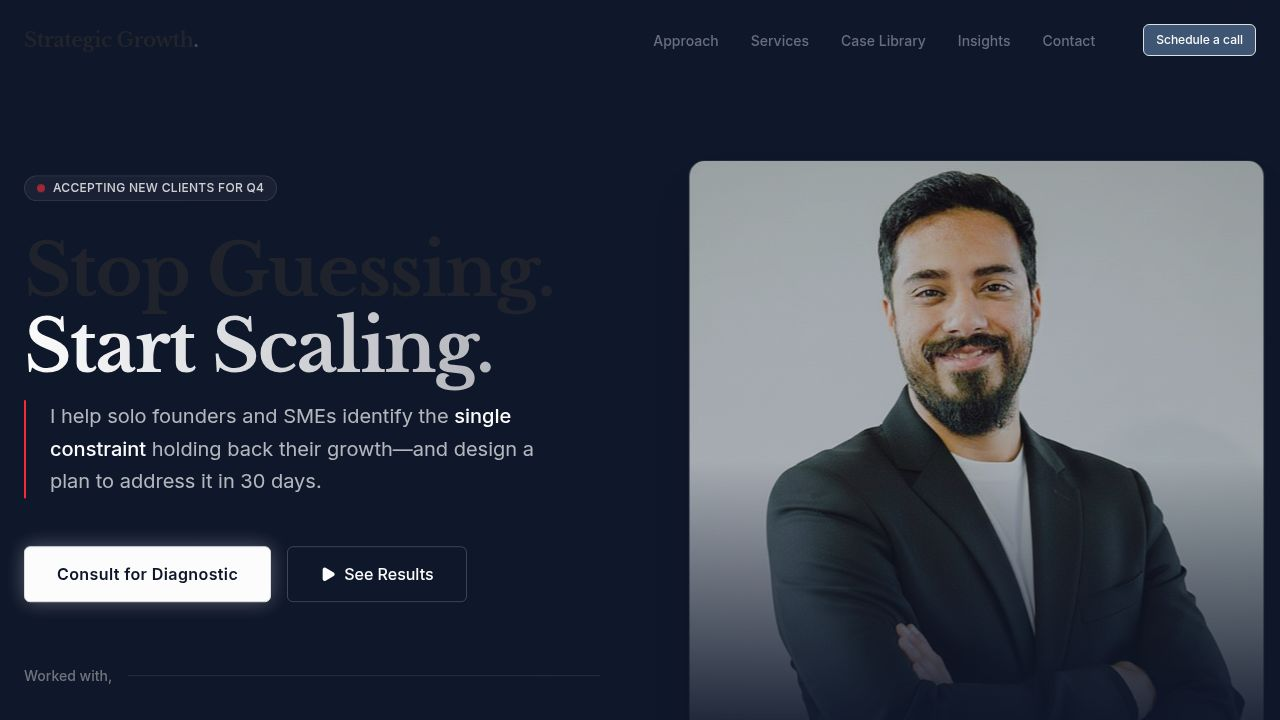
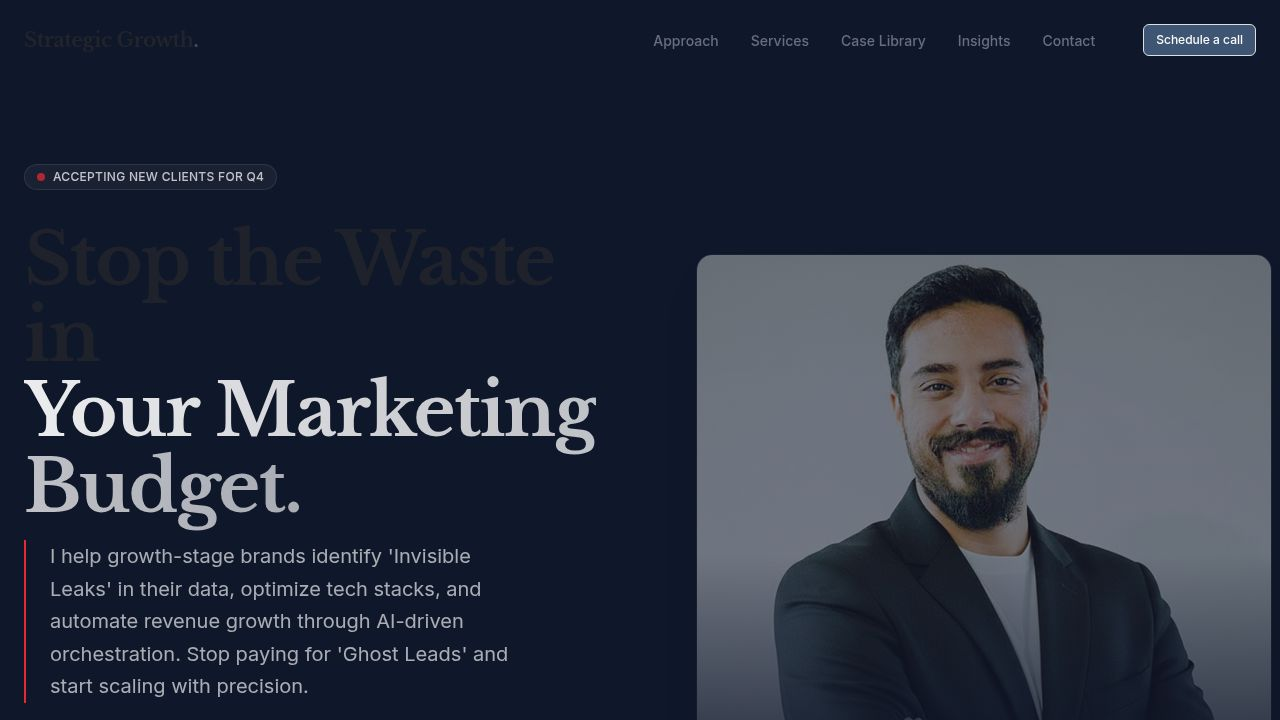
Update website copy to reflect high-ticket consulting services
Refactors client/src/lib/data.ts and client/src/pages/home.tsx to update service descriptions, case study details, and hero/problem section copy to align with a high-ticket consulting service offering.

Replit-Commit-Author: Agent
Replit-Commit-Session-Id: b907c4b8-99f9-47da-9670-69419766bc9b
Replit-Commit-Checkpoint-Type: full_checkpoint
Replit-Commit-Event-Id: 447b919d-4180-4345-8ee4-445651e9fbb6
Replit-Commit-Screenshot-Url: https://storage.googleapis.com/screenshot-production-us-central1/adb55cfd-d712-4f7e-a2b4-4c3664f2930e/b907c4b8-99f9-47da-9670-69419766bc9b/is0lVkW
Replit-Helium-Checkpoint-Created: true

diff --git a/client/src/lib/data.ts b/client/src/lib/data.ts
@@ -13,46 +13,46 @@ export interface Service {
 
 export const services: Service[] = [
   {
-    id: "diagnostic",
-    title: "Growth Diagnostic & Decision Blueprint",
-    timeline: "30 Days",
-    description: "A comprehensive audit of your growth systems to identify leakage and prioritize high-leverage fixes.",
-    idealFor: "Founders & Heads of Growth who feel their data is messy and roadmap is reactive.",
+    id: "audit",
+    title: "The Revenue Integrity Audit",
+    timeline: "Phase 1",
+    description: "A deep-dive diagnostic into your funnel, attribution signals, and data quality to find immediate 'Found Money'.",
+    idealFor: "Brands losing track of true ROI.",
     deliverables: [
-      "Full Funnel Decomposition",
-      "Channel Efficiency Audit",
-      "Measurement Gap Analysis",
-      "90-Day Execution Roadmap"
+      "Funnel Decomposition",
+      "Attribution Signal Review",
+      "Data Quality Assessment",
+      "Immediate ROI Opportunities"
     ],
-    cta: "Explore Diagnostic"
+    cta: "Explore Audit"
   },
   {
-    id: "setup",
-    title: "Measurement & Decision Intelligence Setup",
-    timeline: "2–4 Weeks",
-    description: "Building the infrastructure you need to make data-backed decisions without drowning in dashboards.",
-    idealFor: "Teams that have GA4/Mixpanel but don't trust the numbers.",
+    id: "blueprint",
+    title: "The Technical Architecture Blueprint",
+    timeline: "Phase 2",
+    description: "I design the 'plumbing'—from CRM mapping to Identity Resolution—so your tech team has a bulletproof execution roadmap.",
+    idealFor: "Teams with disconnected enterprise tools.",
     deliverables: [
-      "Tracking Plan Implementation",
-      "Core KPI Dashboard Construction",
-      "Attribution Model Setup",
-      "Team Training on Data Usage"
+      "CRM Data Mapping",
+      "Identity Resolution Strategy",
+      "Tech Stack Rationalization",
+      "Execution Roadmap"
     ],
-    cta: "Explore Setup"
+    cta: "Explore Blueprint"
   },
   {
-    id: "advisory",
-    title: "Fractional Growth Advisory",
-    timeline: "Monthly Retainer",
-    description: "Ongoing strategic guidance to keep your team focused on outcomes, not just activity.",
-    idealFor: "Scale-ups needing senior growth leadership without the full-time headcount.",
+    id: "orchestration",
+    title: "AI & Automation Orchestration",
+    timeline: "Phase 3",
+    description: "Implementing LLM-driven workflows and API integrations (n8n/OpenAI) to automate personalization and scale your lead nurturing.",
+    idealFor: "Companies ready to scale through automation.",
     deliverables: [
-      "Weekly Strategy Syncs",
-      "Experiment Design Review",
-      "Hiring & Team Structure Support",
-      "Board Deck Preparation"
+      "LLM Workflow Design",
+      "API Integrations (n8n)",
+      "Automated Lead Nurturing",
+      "Personalization at Scale"
     ],
-    cta: "Explore Advisory"
+    cta: "Explore Orchestration"
   }
 ];
 
@@ -72,90 +72,90 @@ export interface CaseStudy {
 
 export const caseStudies: CaseStudy[] = [
   {
-    id: "ecommerce-rev",
-    title: "Scaling Revenue While Stabilizing CAC",
-    category: "Ecommerce",
-    description: "How a D2C brand grew revenue 40% while keeping acquisition costs flat through better retention loops.",
-    metrics: "Traffic up, Revenue flat → Revenue up",
+    id: "auto-vendor",
+    title: "Slashed marketing analytics spend by 40%",
+    category: "Automotive",
+    description: "Through strategic vendor rationalization for a global automotive brand.",
+    metrics: "Spend -40% → Same Analytics Quality",
     isSample: true,
-    context: "A D2C home goods brand was scaling ad spend aggressively but seeing diminishing returns. Revenue was plateauing despite higher traffic.",
+    context: "A global automotive brand was paying for redundant enterprise analytics tools.",
     signals: [
-      "CAC increased by 35% in 3 months",
-      "Second-purchase rate dropped from 25% to 15%",
-      "Email open rates were healthy, but CTR was low"
+      "Overlapping CDP and CRM capabilities",
+      "Low utilization of premium features",
+      "High licensing costs"
     ],
     hypotheses: [
-      "The acquisition mix was too reliant on broad targeting, bringing in low-intent users.",
-      "The post-purchase email flow was generic and didn't incentivize the second purchase soon enough.",
-      "Landing pages were optimized for clicks, not AOV."
+      "Consolidating tools could reduce costs without impacting data fidelity.",
+      "The team was only using 20% of the tools they paid for.",
+      "Vendor overlap was causing confusion, not clarity."
     ],
     testPlan: [
-      "Audit and restructure Meta ad account to focus on LTV-based lookalikes.",
-      "Implement a personalized 'replenishment' email flow based on product category.",
-      "A/B test landing page bundles to increase initial AOV."
+      "Audit all existing marketing tech contracts and usage.",
+      "Map required capabilities against core tools.",
+      "Negotiate exits or downgrades for unused software."
     ],
     roadmap: [
-      "Month 1: Ad account restructure & tracking fix.",
-      "Month 2: Email automation overhaul.",
-      "Month 3: Landing page CRO & bundle testing."
+      "Month 1: Vendor Audit.",
+      "Month 2: Capability Mapping.",
+      "Month 3: Implementation & Consolidation."
     ]
   },
   {
-    id: "b2b-lead-gen",
-    title: "Fixing the Leaky Bucket in B2B Lead Gen",
-    category: "SaaS / Lead Gen",
-    description: "Diagnosing why rising CPL wasn't translating to pipeline, and implementing a qualification layer.",
-    metrics: "CPL rising, Pipeline flat → Qualified Pipeline +30%",
+    id: "attribution-signal",
+    title: "Improved attribution signal quality by 11%",
+    category: "E-commerce",
+    description: "Leading to a measurable 2% increase in digitally influenced sales.",
+    metrics: "Signal +11% → Sales +2%",
     isSample: true,
-    context: "A B2B SaaS company was generating plenty of leads through LinkedIn ads, but the sales team complained about lead quality.",
+    context: "A brand had 'Attribution Blindness' leading to inefficient ad spend.",
     signals: [
-      "MQL to SQL conversion rate dropped to < 5%",
-      "Sales cycle length increased by 20%",
-      "High bounce rate on pricing page"
+      "Sales figures didn't match platform dashboards",
+      "High percentage of 'Direct' traffic masking true sources",
+      "Rising CAC across paid channels"
     ],
     hypotheses: [
-      "Ad copy promised features that were only available in the Enterprise plan, attracting wrong fit.",
-      "Lead forms were too short, allowing low-intent submissions.",
-      "Nurture sequences were not segmenting by industry."
+      "First-party data wasn't being correctly passed back to ad platforms.",
+      "Identity resolution was failing across devices.",
+      "Multi-touch attribution models were misconfigured."
     ],
     testPlan: [
-      "Add qualification fields (Company Size, Role) to lead forms.",
-      "Rewrite ad copy to be more specific about the ideal customer profile.",
-      "Create industry-specific landing pages."
+      "Implement server-side tracking via CAPI.",
+      "Fix identity resolution gaps in the CRM.",
+      "Calibrate attribution models to match backend sales data."
     ],
     roadmap: [
-      "Week 1-2: Form & Tracking Setup.",
-      "Week 3-4: Ad Copy & Landing Page refresh.",
-      "Month 2: Nurture sequence segmentation."
+      "Month 1: Tracking infrastructure overhaul.",
+      "Month 2: Identity mapping.",
+      "Month 3: Attribution model training."
     ]
   },
   {
-    id: "app-activation",
-    title: "Turning Installs into Active Users",
-    category: "Mobile App",
-    description: "Revamping the onboarding flow to focus on the 'Aha!' moment rather than just signups.",
-    metrics: "Installs high, Activation low → Activation +15%",
+    id: "tiktok-gtm",
+    title: "Orchestrated regional GTM strategies",
+    category: "Social Media",
+    description: "For platforms like TikTok, driving billions of views and millions in follower growth.",
+    metrics: "Billions of views → Millions of followers",
     isSample: true,
-    context: "A productivity app had great organic install growth but 60% of users churned within Day 1.",
+    context: "A global platform needed to localize and accelerate their GTM strategy.",
     signals: [
-      "High drop-off at the 'Connect Calendar' step during onboarding.",
-      "Users who completed onboarding but didn't create a task churned at 90%.",
-      "Support tickets related to 'how to start' were high."
+      "Slow adoption in key emerging markets",
+      "Content not resonating with local nuances",
+      "High creator acquisition cost"
     ],
     hypotheses: [
-      "The 'Connect Calendar' permission request was too early and scary.",
-      "Users needed to experience the core value (creating a task) *before* being forced to configure settings.",
-      "The empty state was uninspiring."
+      "A localized, culturally relevant GTM playbook would accelerate growth.",
+      "Empowering local micro-creators would drive more organic views.",
+      "Automating content amplification would scale reach."
     ],
     testPlan: [
-      "Move permission requests to *after* the first successful task creation.",
-      "Add a 'template task' to the empty state so users aren't staring at a blank screen.",
-      "Implement a progressive onboarding checklist."
+      "Design localized content pillars and creator incentives.",
+      "Deploy AI-driven content moderation and trend identification.",
+      "Structure a regional launch playbook for rapid deployment."
     ],
     roadmap: [
-      "Sprint 1: Onboarding flow re-ordering.",
-      "Sprint 2: Empty state design & implementation.",
-      "Sprint 3: Permission prompt optimization."
+      "Phase 1: Market Research & Playbook Design.",
+      "Phase 2: Creator Network Seeding.",
+      "Phase 3: Scale & Optimization."
     ]
   }
 ];

diff --git a/client/src/pages/home.tsx b/client/src/pages/home.tsx
@@ -40,11 +40,11 @@ export default function Home() {
               
               <div className="space-y-4">
                 <h1 className="text-5xl md:text-6xl lg:text-7xl font-serif font-bold leading-[1.05] tracking-tight">
-                  Stop Guessing. <br/>
-                  <span className="text-transparent bg-clip-text bg-gradient-to-r from-white to-white/70">Start Scaling.</span>
+                  Stop the Waste in <br/>
+                  <span className="text-transparent bg-clip-text bg-gradient-to-r from-white to-white/70">Your Marketing Budget.</span>
                 </h1>
                 <p className="text-lg md:text-xl text-white/70 leading-relaxed max-w-lg border-l-2 border-red-500 pl-6">
-                  I help solo founders and SMEs identify the <span className="text-white font-medium">single constraint</span> holding back their growth—and design a plan to address it in 30 days.
+                  I help growth-stage brands identify 'Invisible Leaks' in their data, optimize tech stacks, and automate revenue growth through AI-driven orchestration. Stop paying for 'Ghost Leads' and start scaling with precision.
                 </p>
               </div>
               
@@ -126,26 +126,25 @@ export default function Home() {
         </div>
       </section>
 
-      {/* C) Outcomes, not activity */}
+      {/* C) The Problem Section */}
       <section className="py-24 container mx-auto px-6">
         <div className="grid grid-cols-1 lg:grid-cols-2 gap-16 items-center">
           <div className="space-y-6">
-            <h2 className="text-3xl md:text-4xl font-serif font-bold leading-tight">Most consultants sell you <br/><span className="italic text-muted-foreground">time</span>. I sell clarity that drives <span className="text-primary underline decoration-primary/30 underline-offset-4">outcomes</span>.</h2>
+            <h2 className="text-3xl md:text-4xl font-serif font-bold leading-tight">Is Your Data Costing You More <br/><span className="italic text-muted-foreground">Than It's Making You?</span></h2>
             <p className="text-lg text-muted-foreground leading-relaxed">
-              You don't need more dashboards. You don't need a 50-page audit that gathers dust. 
-              You need a decision. You need a direction. You need a result.
+              Most companies suffer from a 'Translation Gap.' Marketing, Tech, and Sales are speaking different languages, leaving your ROI in a black box. I bridge that gap.
             </p>
             <ul className="space-y-4 pt-4">
               {[
-                "From 'Gut Feeling' to Data-Backed Certainty",
-                "From 'Spray and Pray' to Targeted Scale",
-                "From 'Busy Work' to High-Leverage Execution"
+                { title: "Attribution Blindness:", desc: "Your dashboard says it's working, but your sales aren't moving." },
+                { title: "Tech Stack Bloat:", desc: "You're paying for enterprise tools (CDPs/CRMs) that aren't talking to each other." },
+                { title: "Inefficient Spend:", desc: "You are likely paying for leads you would have captured organically." }
               ].map((item, i) => (
-                <li key={i} className="flex items-center gap-3">
-                  <div className="w-6 h-6 rounded-full bg-primary/10 flex items-center justify-center text-primary">
+                <li key={i} className="flex items-start gap-3">
+                  <div className="w-6 h-6 rounded-full bg-primary/10 flex items-center justify-center text-primary mt-1 shrink-0">
                     <Check size={14} />
                   </div>
-                  <span className="font-medium text-foreground">{item}</span>
+                  <span className="font-medium text-foreground"><strong className="font-bold">{item.title}</strong> {item.desc}</span>
                 </li>
               ))}
             </ul>
@@ -158,9 +157,9 @@ export default function Home() {
           
           <div className="grid grid-cols-1 gap-6">
             {[
-              { from: "Channel confusion", to: "Budget clarity" },
-              { from: "Traffic growth", to: "Conversion lift focus" },
-              { from: "Dashboards", to: "Decisions" }
+              { from: "Siloed data", to: "Unified revenue truth" },
+              { from: "Bloated tech stack", to: "Lean, integrated systems" },
+              { from: "Guesswork ROI", to: "Predictable scale" }
             ].map((item, i) => (
               <Card key={i} className="border-l-4 border-l-primary shadow-sm hover:shadow-md transition-shadow">
                 <CardContent className="p-6 flex justify-between items-center">
@@ -258,7 +257,7 @@ export default function Home() {
       <section className="py-24 bg-secondary/30">
         <div className="container mx-auto px-6">
           <div className="flex justify-between items-center mb-12">
-            <h2 className="text-3xl font-serif font-bold">Proven Results</h2>
+            <h2 className="text-3xl font-serif font-bold">Proven Impact at Scale.</h2>
             <Link href="/case-library"><a className="text-primary font-medium hover:underline decoration-1 underline-offset-4">View all cases</a></Link>
           </div>
           
@@ -300,9 +299,9 @@ export default function Home() {
       <section className="py-32 bg-[#0f172a] text-white text-center relative overflow-hidden">
         <div className="absolute inset-0 bg-red-600/10 blur-3xl rounded-full scale-150 pointer-events-none" />
         <div className="container mx-auto px-6 relative z-10 max-w-4xl">
-          <h2 className="text-5xl md:text-6xl font-serif font-bold mb-8">One Decision Can Change Everything.</h2>
+          <h2 className="text-5xl md:text-6xl font-serif font-bold mb-8">Ready to find your 'Invisible Leaks'?</h2>
           <p className="text-xl text-white/70 mb-12 max-w-2xl mx-auto">
-            You are one constraint away from the growth you want. Let's find it and fix it.
+            Stop paying for 'Ghost Leads' and start scaling with precision. Let's find your invisible leaks.
           </p>
           
           <div className="max-w-3xl mx-auto bg-white/5 border border-white/10 p-8 rounded-2xl backdrop-blur-md">
@@ -366,7 +365,7 @@ export default function Home() {
                 </div>
 
                 <Button size="lg" className="w-full h-12 text-lg font-bold bg-red-600 hover:bg-red-700 shadow-xl shadow-red-900/20" asChild>
-                    <Link href="/contact">Schedule a call</Link>
+                    <Link href="/contact">Book a 15-Minute Diagnostic Call</Link>
                 </Button>
              </form>
              <p className="text-xs text-center text-white/40 mt-4">No spam. Unsubscribe anytime.</p>
